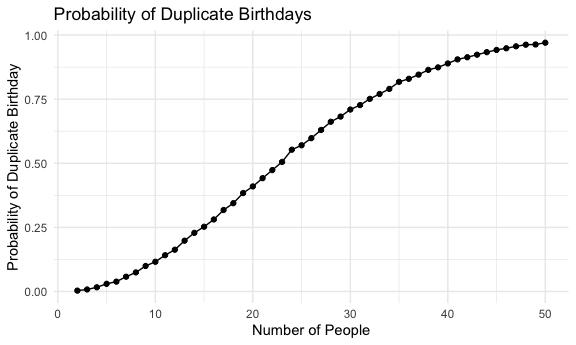
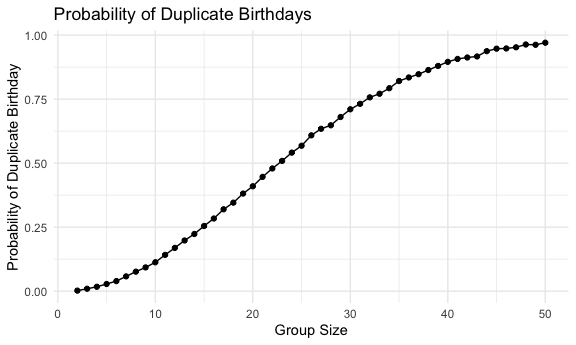
Commenting on probability plot and changing x-axis label for problem 1. Finished problem 1 for now.

diff --git a/p8105_hw5_mts2203.md b/p8105_hw5_mts2203.md
@@ -48,15 +48,15 @@ birthday_probabilities_df =
     ## # A tibble: 49 × 2
     ##    number_of_people probability
     ##               <int>       <dbl>
-    ##  1                2      0.0034
-    ##  2                3      0.0079
-    ##  3                4      0.0164
-    ##  4                5      0.0299
-    ##  5                6      0.0384
-    ##  6                7      0.0576
-    ##  7                8      0.0744
-    ##  8                9      0.0995
-    ##  9               10      0.116 
+    ##  1                2      0.0021
+    ##  2                3      0.0094
+    ##  3                4      0.0171
+    ##  4                5      0.028 
+    ##  5                6      0.0393
+    ##  6                7      0.0577
+    ##  7                8      0.0761
+    ##  8                9      0.0927
+    ##  9               10      0.113 
     ## 10               11      0.142 
     ## # ℹ 39 more rows
 
@@ -70,9 +70,19 @@ birthday_probabilities_df |>
   geom_line() +
   labs(
     title = "Probability of Duplicate Birthdays",
-    x = "Number of People",
+    x = "Group Size",
     y = "Probability of Duplicate Birthday"
   )
 ```
 
 <img src="p8105_hw5_mts2203_files/figure-gfm/plotting_probabilies-1.png" alt="" width="90%" />
+
+## Commenting on the Results
+
+The `birthday_probabilities_df` plot shows that as group size increases
+so does the probability of duplicate birthdays, assuming each person is
+randomly assigned a birthday. Looking at the *Probability of Duplicate
+Birthdays* plot, this increase is initially gradual, but becomes much
+steeper as group size grows. As the group size approaches 50, the
+probability of at least one duplicate birthday approaches 1.00. At group
+size 23, this probability is already approximately 0.50.
